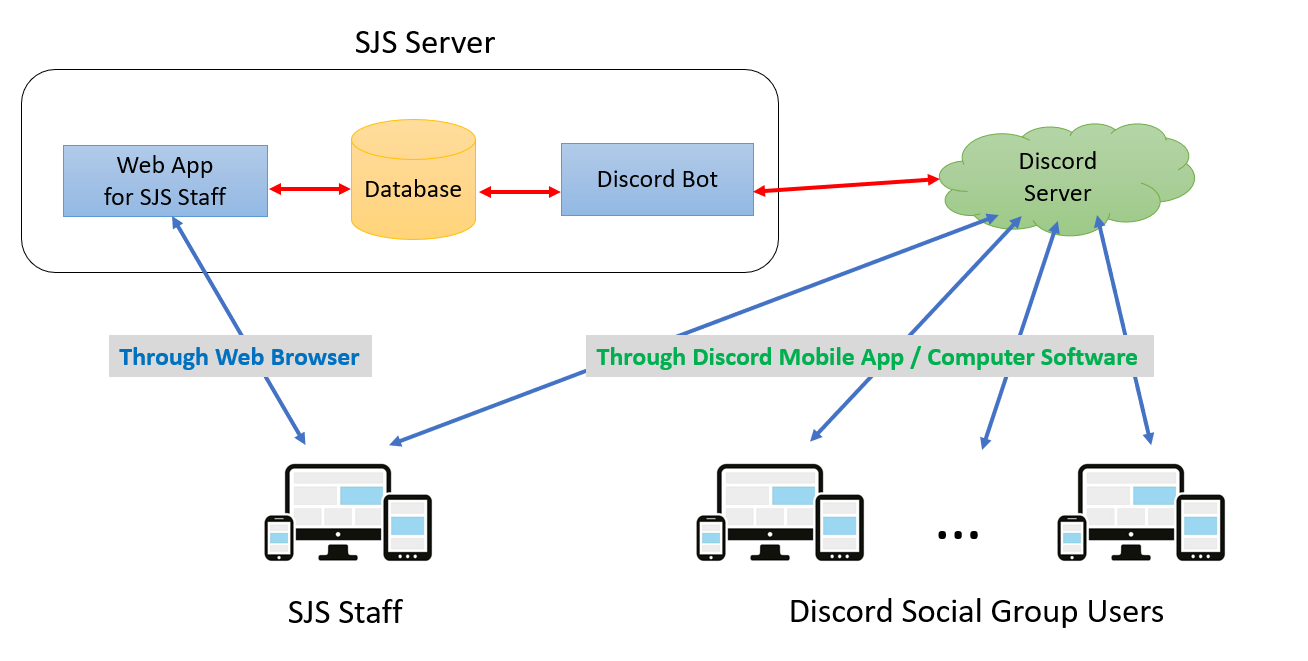
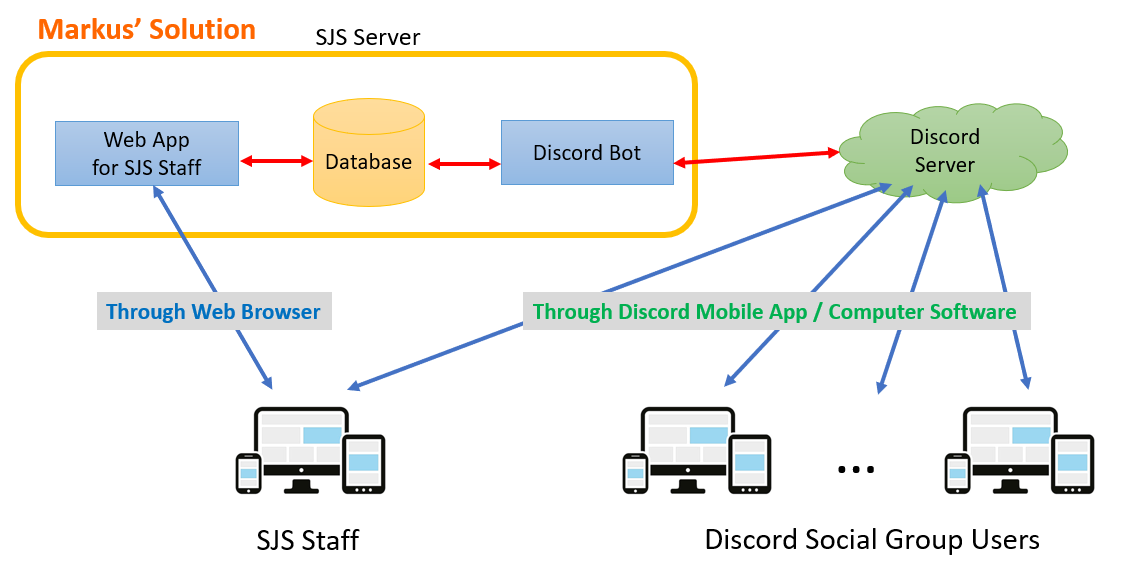
Updated Methodology

diff --git a/sjs.html b/sjs.html
@@ -8,7 +8,7 @@
 
   <link rel="stylesheet" href="https://cdn.jsdelivr.net/npm/bootstrap@5.2.2/dist/css/bootstrap.min.css">
   <link rel="stylesheet" href="./css/sidebar.css">
-  <title>Project Homepage St'James Settlement Bot</title>
+  <title>Project Homepage St. James' Settlement Bot</title>
 </head>
 
 <body>
@@ -29,26 +29,32 @@
               aria-label="Close"></button>
           </div>
           <div class="offcanvas-body bg-dark">
-            <ul class="navbar-nav navbar-dark justify-content-end flex-grow-1 pe-3">
-              <li class="nav-item">
+            <div class="navbar-nav navbar-dark justify-content-end flex-grow-1 pe-3 btn-group">
+              <button type="button" class="nav-item btn">
                 <a class="nav-link active" aria-current="page" href="#">Project</a>
-              </li>
-              <li class="nav-item">
-                <a class="nav-link" href="#intro">Introduction</a>
-              </li>
-              <li class="nav-item dropdown">
-                <a class="nav-link dropdown-toggle" href="#intro" role="button" data-bs-toggle="dropdown"
-                  aria-expanded="false">
-                  Introduction
-                </a>
+              </button>
+              <div class="btn-group">
+                <button type="button" class="nav-item btn"><a class="nav-link" href="#intro">Introduction</a></button>
+                <button type="button" class="nav-item btn-close-white dropdown-toggle dropdown-toggle-split" data-bs-toggle="dropdown" aria-expanded="false">
+                  <span class="visually-hidden">Toggle Dropdown</span>
+                </button>
                 <ul class="dropdown-menu">
                   <li><a class="dropdown-item" href="#aim">Aim and Objectives</a></li>
-                  <!--<li<hr class="dropdown-divider"></li>
-                <li><a class="dropdown-item" href="#">Something else here</a></li>-->
                 </ul>
-              </li>
-            </ul>
-          </div>
+              </div>
+              <div class="btn-group">
+                <button type="button" class="nav-item btn"><a class="nav-link" href="#intro">Methodology and Implementations</a></button>
+                <button type="button" class="nav-item btn-close-white dropdown-toggle dropdown-toggle-split" data-bs-toggle="dropdown" aria-expanded="false">
+                  <span class="visually-hidden">Toggle Dropdown</span>
+                </button>
+                <ul class="dropdown-menu">
+                  <li><a class="dropdown-item" href="#overview">System Overview</a></li>
+                </ul>
+              </div>
+              <button type="button" class="nav-item btn">
+                <a class="nav-link" aria-current="page" href="#references">References</a>
+              </button>
+            </div>
         </div>
       </div>
     </nav>
@@ -65,7 +71,7 @@
       <div class="col-lg-4">
         <p>I am the Head Developer for the project "Managing Social Virtual Group Members for Hong Kong Youth Services using a Discord Bot".
            This project serves the <a href="https://www.cyberyouth.sjs.org.hk/services-en">6PM Cyber Youth Support Team</a> at the
-          non-profit organization <a href="https://sjs.org.hk/en/">St. Jame's Settlement</a> in Hong Kong.
+          non-profit organization <a href="https://sjs.org.hk/en/">St. James' Settlement</a> in Hong Kong.
         </p>
       </div>
       <div class="col-lg-8">
@@ -115,7 +121,7 @@
       The number of hidden youths in Hong Kong is expected to be 140,000 (<a href="#durston2019">Durston, 2019</a>).
       The social distancing measures for the COVID-19 pandemic have worsened the situation.</p>
 
-    <p><a href="https://sjs.org.hk/en/">St. Jame's Settlement</a> is one of the non-profit organizations in Hong Kong
+    <p><a href="https://sjs.org.hk/en/">St. James' Settlement (SJS)</a> is one of the non-profit organizations in Hong Kong
       offering government-funded social services to hidden youths.
       Due to the advancement in Internet technologies, many hidden youths can be found online and they are referred to as
       <em>cyber youths</em>.
@@ -154,8 +160,20 @@
     <div class="anchor" id="methodology"></div>
     <h3>2. Methodology and Implementations</h3>
 
+    <div class="anchor" id="overview"></div>
+    <h4>2.1 System Overview</h4>
     <p><img src="./img/system_design.png" alt="System design" width="80%" /></p>
 
+    <p>
+    My solution contains three components to be deployed on the computer server of St. James' Settlement (SJS):
+    <ul>
+      <li><b>Database:</b> It is a relational table where data is arranged in rows and columns. It keeps the information of the SJS Discord server members, including their Discord IDs, Discord names, email addresses, Facebook IDs, and Instagram IDs.</li>
+      <li><b>Discord Bot:</b> It acts as a robotic group member in the SJS Discord server. It can read messages and commands from users, and send messages and input forms to users for collecting user information.</li>
+      <li><b>Web Application for SJS Staff:</b> It is a website for SJS staff to administer and manage the database through a web browser. SJS staff can browse all the user information in the database in a user-friendly interface. They can also create new user information, and edit and delete existing user information.</li>
+    </ul>
+    </p>
+
+    <div class="anchor" id="references"></div>
     <h3 id="ref">References</h4>
       <div class="anchor" id="durston2019"></div>
       <div class="apa-reference">
